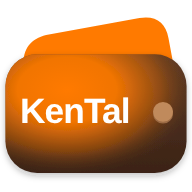
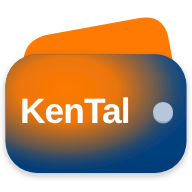
Ikon KenTal: dompet biru Mandiri
Claude-Session: https://claude.ai/code/session_015Ebc1KBKGqm5xwmaobh5dd

diff --git a/index.html b/index.html
@@ -5,12 +5,12 @@
   <meta name="viewport" content="width=device-width, initial-scale=1, viewport-fit=cover">
   <meta name="theme-color" content="#121212">
   <meta name="robots" content="noindex, nofollow">
-  <link rel="icon" type="image/png" sizes="32x32" href="img/kental-32.png?v=6">
-  <link rel="icon" type="image/png" sizes="48x48" href="img/kental-48.png?v=6">
-  <link rel="icon" type="image/png" sizes="192x192" href="img/kental-192.png?v=6">
-  <link rel="icon" type="image/svg+xml" href="img/icon.svg?v=6">
-  <link rel="apple-touch-icon" href="img/kental-180.png?v=6">
-  <link rel="manifest" href="manifest.webmanifest?v=6">
+  <link rel="icon" type="image/png" sizes="32x32" href="img/kental-32.png?v=7">
+  <link rel="icon" type="image/png" sizes="48x48" href="img/kental-48.png?v=7">
+  <link rel="icon" type="image/png" sizes="192x192" href="img/kental-192.png?v=7">
+  <link rel="icon" type="image/svg+xml" href="img/icon.svg?v=7">
+  <link rel="apple-touch-icon" href="img/kental-180.png?v=7">
+  <link rel="manifest" href="manifest.webmanifest?v=7">
   <title>Keuangan Digital</title>
   <link rel="preconnect" href="https://fonts.googleapis.com">
   <link rel="preconnect" href="https://fonts.gstatic.com" crossorigin>
@@ -36,7 +36,7 @@
     <!-- ═════════ SIDEBAR (desktop/tablet) ═════════ -->
     <aside class="sidebar" id="sidebar" aria-label="Navigasi utama">
       <div class="brand">
-        <img class="brand-logo" src="img/icon.svg?v=6" alt="KenTal">
+        <img class="brand-logo" src="img/icon.svg?v=7" alt="KenTal">
         <div class="brand-text">
           <strong>Keuangan Digital</strong>
           <small>PERSONAL FINANCE</small>
@@ -143,7 +143,7 @@
   <!-- LAYAR MASUK — menutupi aplikasi sampai login berhasil -->
   <div class="auth-screen" id="authScreen" hidden>
     <div class="auth-card" role="dialog" aria-modal="true" aria-labelledby="authTitle">
-      <img class="brand-logo" src="img/icon.svg?v=6" alt="KenTal">
+      <img class="brand-logo" src="img/icon.svg?v=7" alt="KenTal">
       <h1 id="authTitle">Keuangan Digital</h1>
       <p id="authSub">Masuk untuk melanjutkan</p>
       <div class="auth-msg" id="authMsg" hidden></div>
